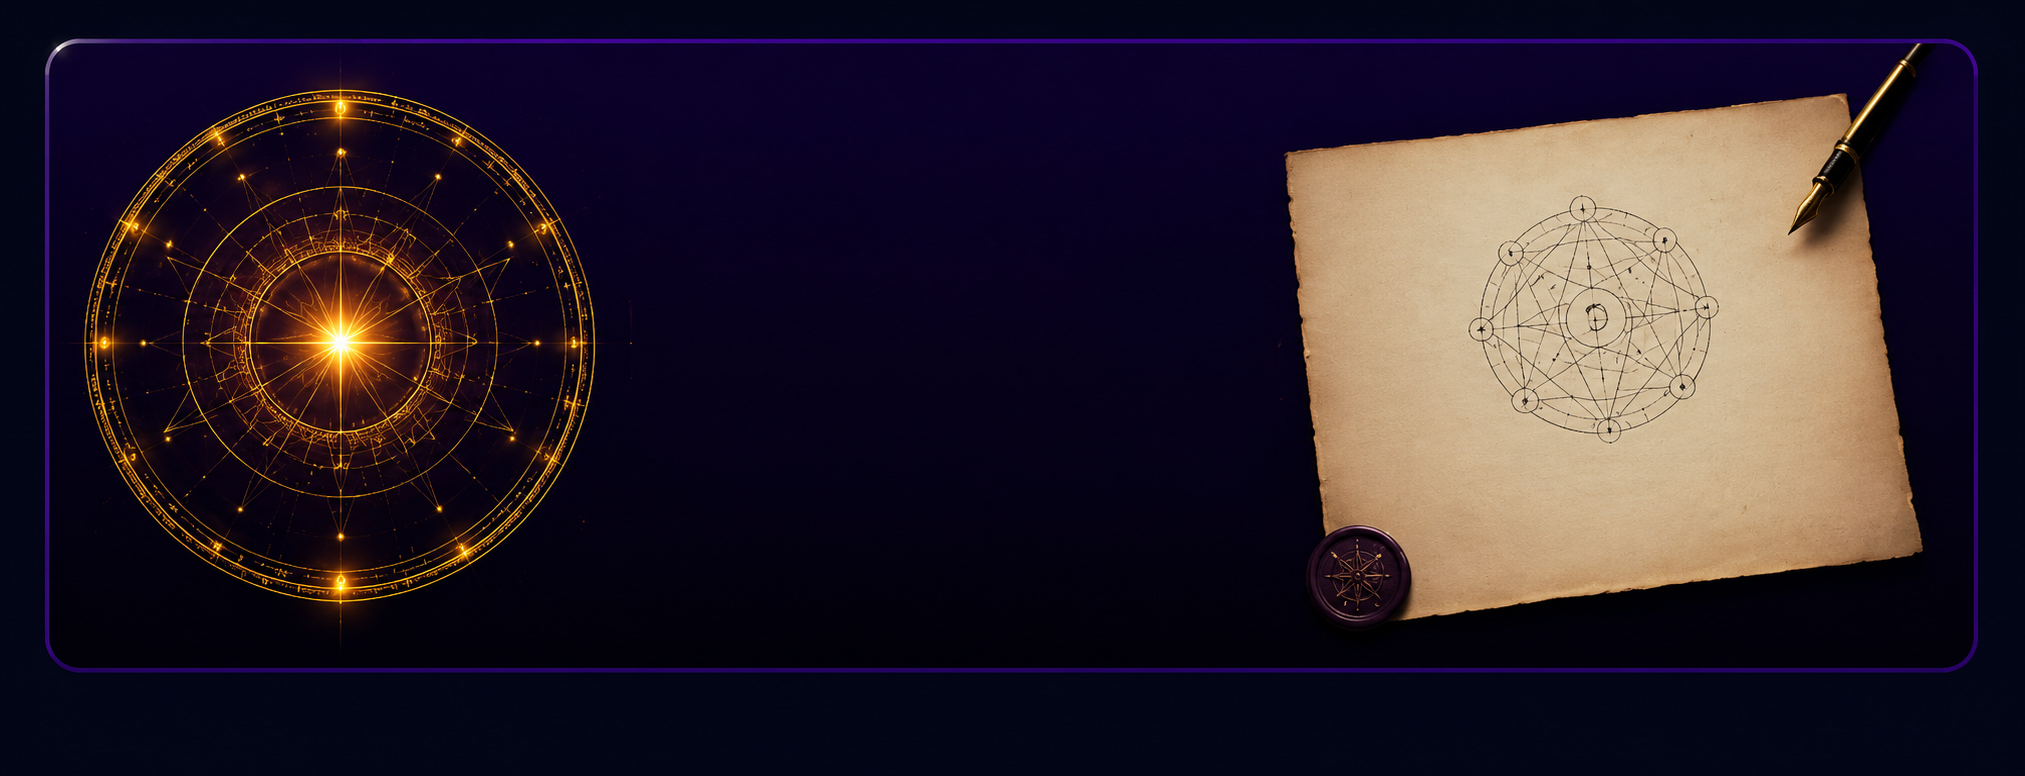
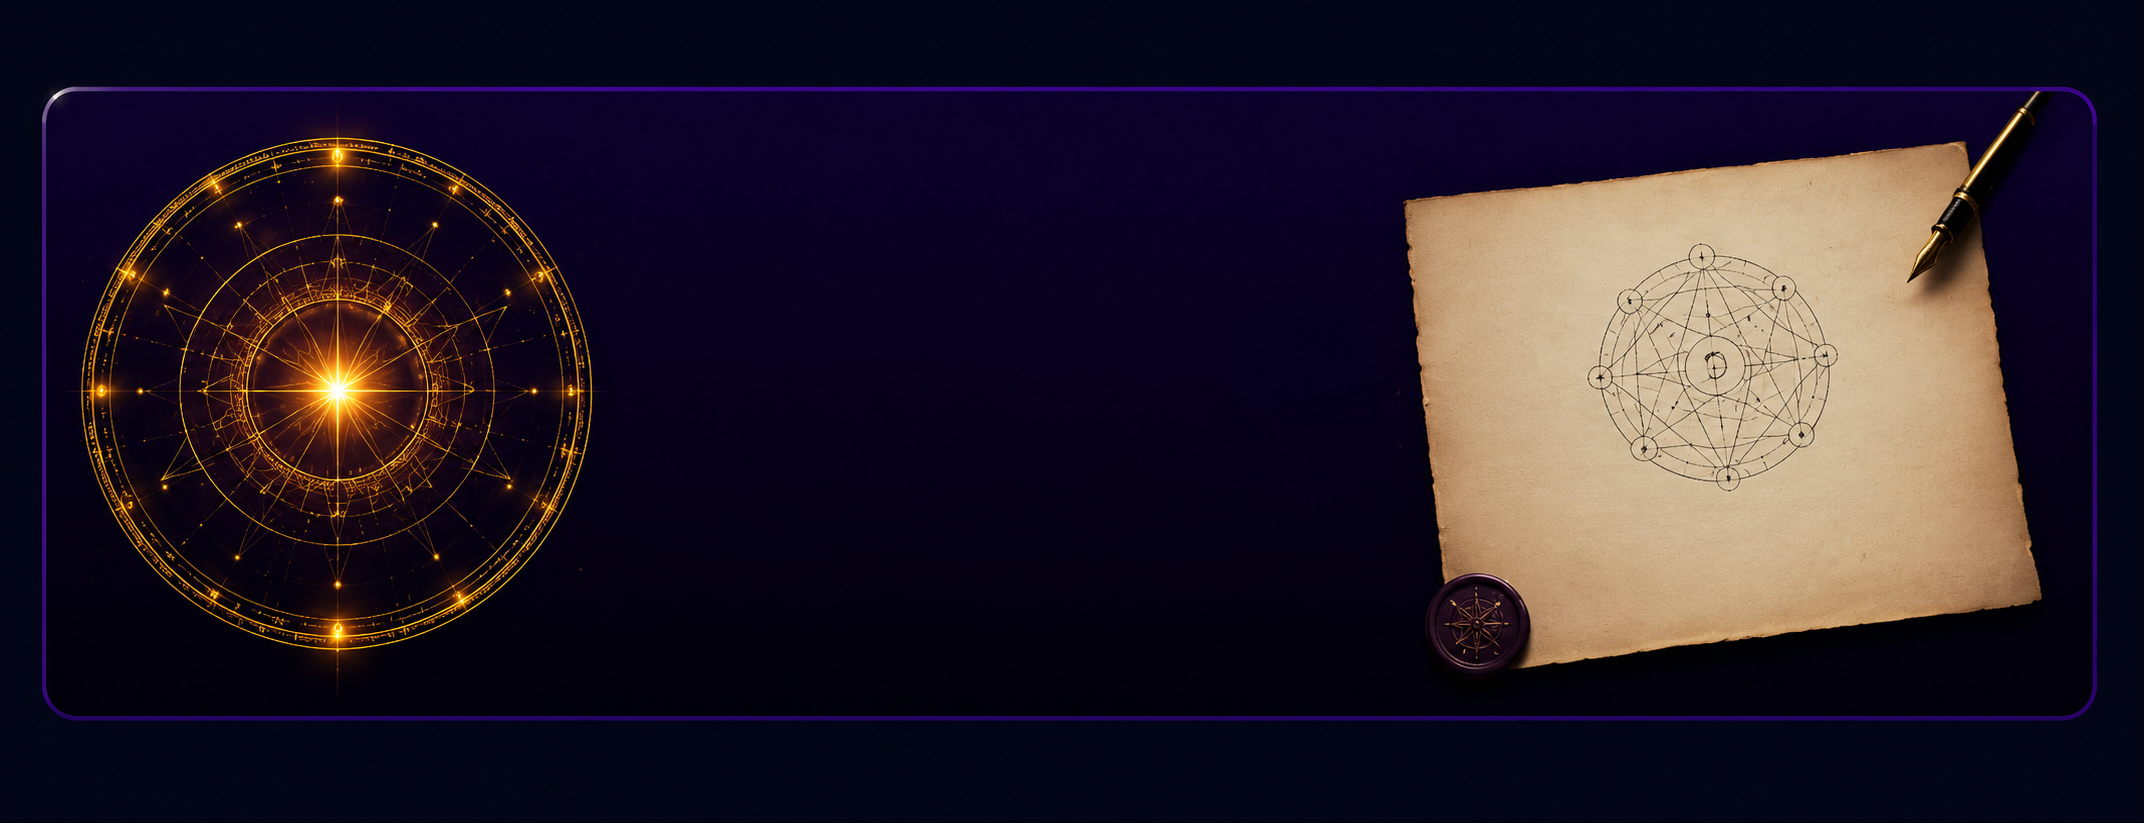
changes

Changed region(s): [[0.0, 0.0, 1.0, 1.0], [0.7778, 0.7113, 0.9644, 0.7732], [0.9022, 0.4021, 0.9333, 0.433]]

diff --git a/src/App.css b/src/App.css
@@ -10,9 +10,10 @@
   --color-deep-purple: #280F4F;
   --color-border-purple: #6720C5;
   
-  --font-display: "Montserrat", sans-serif;
+  --font-sans: "Poppins", sans-serif;
+  --font-display: "Poppins", sans-serif;
   --font-body: "Poppins", sans-serif;
-  --font-number: "Orbitron", sans-serif;
+  --font-number: "Poppins", sans-serif;
 
   --animate-glow: glow 2s ease-in-out infinite alternate;
   --animate-float: float 6s ease-in-out infinite;
@@ -34,7 +35,8 @@
 
 @layer base {
   body {
-    @apply bg-dark text-[#F9F8FA] font-body;
+    @apply bg-dark text-white antialiased;
+    font-family: 'Poppins', sans-serif !important;
     background: linear-gradient(135deg, #130A2C 0%, #050614 100%);
     background-attachment: fixed;
   }

diff --git a/index.html b/index.html
@@ -5,6 +5,10 @@
     <link rel="icon" type="image/svg+xml" href="/vite.svg" />
     <meta name="viewport" content="width=device-width, initial-scale=1.0" />
     <title>Numerology </title>
+    <!-- Google Fonts: Poppins -->
+    <link rel="preconnect" href="https://fonts.googleapis.com">
+    <link rel="preconnect" href="https://fonts.gstatic.com" crossorigin>
+    <link href="https://fonts.googleapis.com/css2?family=Poppins:ital,wght@0,100;0,200;0,300;0,400;0,500;0,600;0,700;0,800;0,900;1,100;1,200;1,300;1,400;1,500;1,600;1,700;1,800;1,900&display=swap" rel="stylesheet">
   </head>
   <body>
     <div id="root"></div>